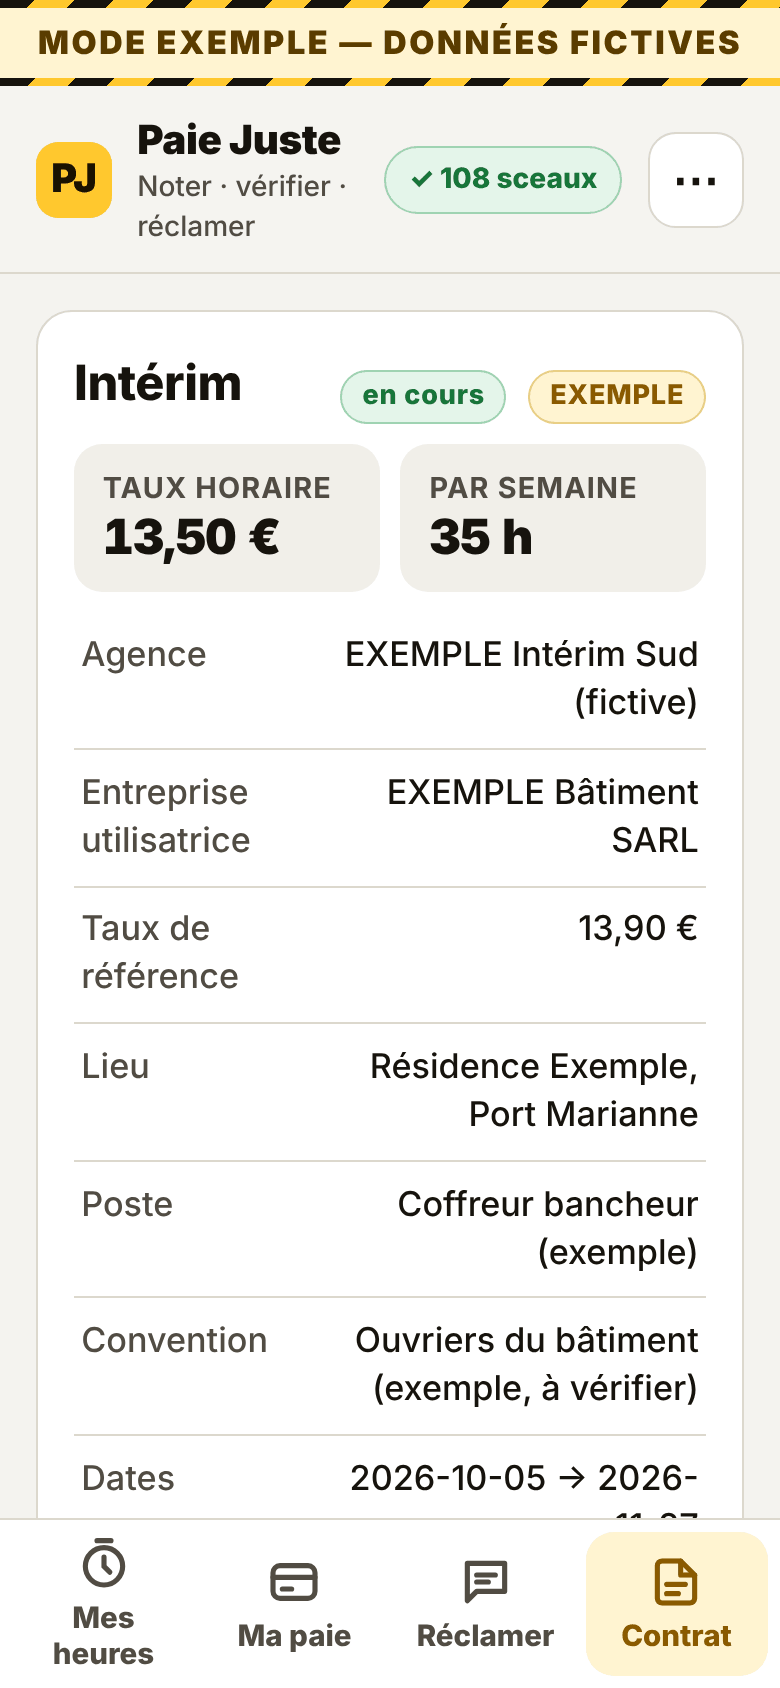
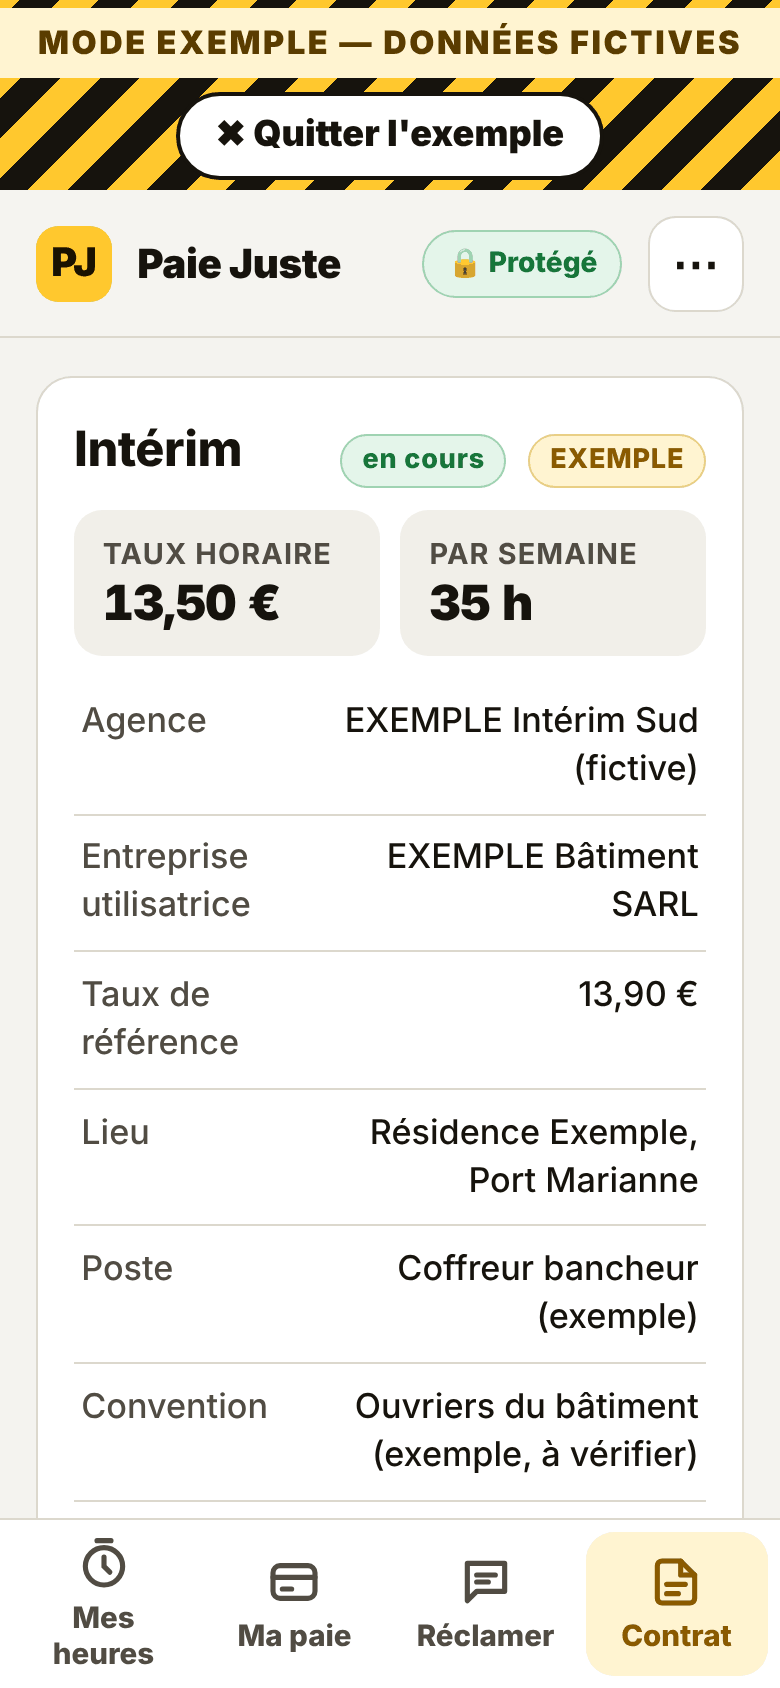
Quitter l'exemple en un geste, supprimer une fiche de paie gardée
- Bandeau EXEMPLE : bouton « ✖ Quitter l'exemple » toujours visible.
- Ma fiche : « 🗑 Supprimer cette fiche de paie » ajoute une correction
  scellée (annule + motif) ; le journal reste en ajout seul.
- Tests navigateur : suppression tracée, sortie de l'exemple (101 réussis).

Claude-Session: https://claude.ai/code/session_016NWEJHWN7FpaQE58cH9vDJ

Changed region(s): [[0.0, 0.0, 1.0, 0.8934], [0.0923, 0.2156, 0.4308, 0.6777], [0.0923, 0.7085, 0.3385, 0.8934]]

diff --git a/js/modules/paie.js b/js/modules/paie.js
@@ -543,6 +543,13 @@ export default {
       </section>
       <section data-panel="fiche" ${panneau === "fiche" ? "" : "hidden"}>
       ${verif}
+      ${
+        P.bulletin && P.bulletin.id
+          ? `<div class="card" id="b-garde"><h3>Fiche de paie gardée · ${esc(fmtMois(periode === "contrat" ? cur : periode))}</h3>
+        <p class="small muted">Ce n'est pas la bonne ? Supprimez-la. Elle reste tracée dans l'historique (rien ne s'efface en cachette).</p>
+        <button class="btn" id="b-suppr">🗑 Supprimer cette fiche de paie</button></div>`
+          : ""
+      }
       ${bulletinCard(P)}
       </section>
       <section data-panel="details" ${panneau === "details" ? "" : "hidden"}>
@@ -614,6 +621,21 @@ export default {
       ctx.go("paie");
     };
     bindVerif(ctx, el, c, periode === "contrat" ? cur : periode);
+    const bs = el.querySelector("#b-suppr");
+    if (bs) {
+      bs.onclick = async () => {
+        const motif = prompt("Pourquoi supprimer cette fiche ? (gardé dans l'historique)", "Mauvaise fiche de paie");
+        if (motif === null) return;
+        await ctx.append("correction", {
+          targetId: P.bulletin.id,
+          annule: true,
+          motif: motif.trim() || "Fiche supprimée",
+        });
+        ui.panneau = "fiche";
+        ctx.toast("Fiche de paie supprimée. Vous pouvez en ajouter une autre.");
+        ctx.refresh();
+      };
+    }
     el.querySelector("#b-save").onclick = async () => {
       const data = { contratId: c.id, periode };
       el.querySelectorAll('[id^="b-"]').forEach((i) => {

diff --git a/index.html b/index.html
@@ -19,7 +19,10 @@
     <link rel="stylesheet" href="./css/app.css" />
   </head>
   <body>
-    <div class="demo-banner" role="note"><div>MODE EXEMPLE — DONNÉES FICTIVES</div></div>
+    <div class="demo-banner" role="note">
+      <div>MODE EXEMPLE — DONNÉES FICTIVES</div>
+      <button type="button" id="quit-demo" class="demo-quit">✖ Quitter l'exemple</button>
+    </div>
     <header class="top">
       <div class="logo" aria-hidden="true">PJ</div>
       <div class="brand"><b>Paie Juste</b><span>Noter · vérifier · réclamer</span></div>

diff --git a/js/app.js b/js/app.js
@@ -137,6 +137,11 @@ function render() {
 }
 
 $("#btn-data").onclick = () => ctx.go("donnees");
+$("#quit-demo").onclick = async () => {
+  await ctx.setDemo(false);
+  ctx.go("pointer");
+  ctx.toast("Exemple fermé : vous êtes sur vos vraies données.");
+};
 const params = new URLSearchParams(location.search);
 const startDemo = params.get("exemple") === "1" || localStorage.getItem("pj-mode") === "demo";
 if (params.get("onglet")) ctx.view = params.get("onglet");

diff --git a/css/app.css b/css/app.css
@@ -1402,3 +1402,20 @@ ul.verifs .ic {
 .resume td.num {
   width: 1%;
 }
+.demo-banner {
+  position: relative;
+}
+.demo-quit {
+  display: block;
+  margin: 0.35rem auto 0.1rem;
+  min-height: 44px;
+  padding: 0 1rem;
+  border: 2px solid #16130d;
+  border-radius: 99px;
+  background: #fff;
+  color: #16130d;
+  font: inherit;
+  font-weight: 900;
+  letter-spacing: 0;
+  cursor: pointer;
+}

diff --git a/CHANGELOG.md b/CHANGELOG.md
@@ -9,6 +9,8 @@ Ma paie en 3 pages courtes, l'exemple qui s'efface tout seul, et les montants co
 - Le mode exemple se ferme tout seul dès qu'on met un vrai document (photo ou PDF) : la fiche est vérifiée avec vos vraies données.
 - « ✏ Un montant est faux ? Corriger » : chaque montant lu sur la fiche est modifiable. « 🔄 Recalculer » refait la vérification, et le montant reste marqué « corrigé par vous ».
 - Mois en cours sans fiche : la prévision du net s'affiche dans Résultat.
+- Bouton « ✖ Quitter l'exemple » dans le bandeau jaune, toujours visible : un geste pour revenir à ses vraies données.
+- « 🗑 Supprimer cette fiche de paie » (onglet Ma fiche) : une fiche gardée par erreur s'enlève. La suppression reste tracée (correction scellée avec motif), rien ne s'efface en cachette.
 - Les montants ne se coupent plus sur deux lignes. Vérifié sans débordement à 390 px, avec deux polices différentes.
 
 ## 0.8.1 — 2026-11-12
